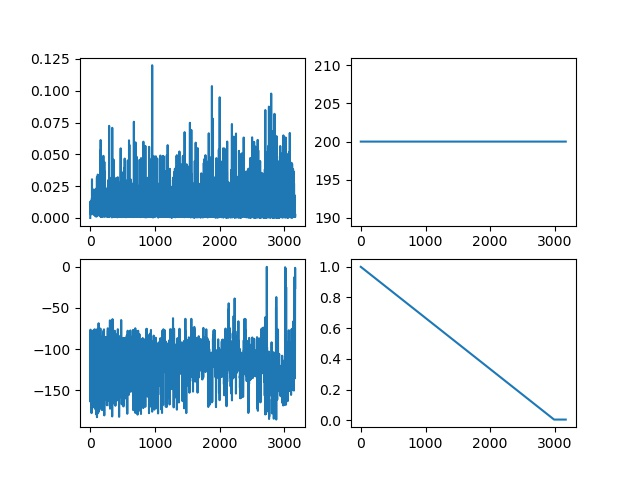
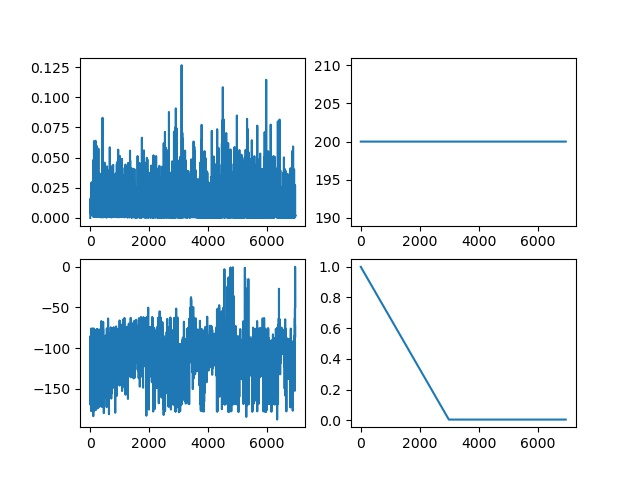
dueling dqn debuging...

diff --git a/2_Deep_ValueBased/Code/DNN_Value_Function/DQN_Pendulum/main.py b/2_Deep_ValueBased/Code/DNN_Value_Function/DQN_Pendulum/main.py
@@ -20,7 +20,7 @@ exp_replay_size = 256
 # agent = double_DQN_agent(seed, layer_sizes, lr, gamma, sync_freq, exp_replay_size)
 agent = dueling_DQN_agent(seed, layer_sizes, lr, gamma, sync_freq, exp_replay_size)
 
-episodes = 10000
+episodes = 8000
 epsilon = 1.0
 batch_size = 16
 loss_list, reward_list, step_list, epsilon_list = [], [], [], []
@@ -32,8 +32,8 @@ LEARN_FREQ = exp_replay_size/2
 LEARN_TIMES = 4
 collect_count = exp_replay_size/2
 
-SAVE_COUNT_THR = 3
-SAVE_REWARD_THR = -3
+SAVE_COUNT_THR = 5
+SAVE_REWARD_THR = -0.03
 save_count = 0
 
 for episode in tqdm(range(episodes+1)):
@@ -59,11 +59,11 @@ for episode in tqdm(range(episodes+1)):
         step += 1
         collect_count += 1
     
-    if sum(step_reward_list[-50:]) >= SAVE_REWARD_THR:
+    if sum(step_reward_list[-10:]) >= SAVE_REWARD_THR:
         save_count += 1
         if save_count >= SAVE_COUNT_THR:
             print("Saving trained model...")
-            agent.save_trained_model("2_Deep_ValueBased/Model/"+ agent.name +"DQN-Pendulum-v1" + "_episode_" + str(episode)+".pth")
+            agent.save_trained_model("2_Deep_ValueBased/Model/"+ agent.name +"_DQN-Pendulum-v1" + "_episode_" + str(episode)+".pth")
             break
     else:
         save_count = 0
@@ -80,7 +80,7 @@ env.close()
 
 if save_count < SAVE_COUNT_THR:
     print("Saving trained model...")
-    agent.save_trained_model("2_Deep_ValueBased/Model/"+ agent.name +"DQN-Pendulum-v1" + "_episode_" + str(episodes)+".pth")
+    agent.save_trained_model("2_Deep_ValueBased/Model/"+ agent.name +"_DQN-Pendulum-v1" + "_episode_" + str(episodes)+".pth")
 
 plt.subplot(221)
 plt.plot(loss_list)
@@ -90,5 +90,5 @@ plt.subplot(223)
 plt.plot(reward_list)
 plt.subplot(224)
 plt.plot(epsilon_list)
-plt.savefig("2_Deep_ValueBased/Fig/"+ agent.name +"DQN-Pendulum-v1_plot.jpg")
+plt.savefig("2_Deep_ValueBased/Fig/"+ agent.name +"_DQN-Pendulum-v1_plot.jpg")
 plt.show()

diff --git a/2_Deep_ValueBased/Code/DNN_Value_Function/DQN_Pendulum/dueling_dqn.py b/2_Deep_ValueBased/Code/DNN_Value_Function/DQN_Pendulum/dueling_dqn.py
@@ -21,7 +21,7 @@ class dueling_DQN_agent():
         self.learn_count = 0
         self.exp_replay_mem = ReplayMemory(exp_replay_size)
 
-        self.name = "dueling_"
+        self.name = "dueling"
 
     def get_action(self, state, action_space_len, epsilon):
         with torch.no_grad():
@@ -30,13 +30,11 @@ class dueling_DQN_agent():
         A = A if torch.rand(1, ).item() > epsilon else torch.randint(0, action_space_len, (1,))
         return A.item(), Q
 
-    def get_qvalue_(self, state, batch_size):
+    def get_qvalue_(self, state):
         with torch.no_grad():
-            q_target_net = self.target_net(state)
-            q_net = self.net(state)
-        _, action_max = torch.max(q_net, axis=1)
-        q_max_ = q_target_net.gather(-1, action_max.view(batch_size, 1)).view(-1)
-        return q_max_
+            q_values_ = self.target_net(state)
+        q_max, _ = torch.max(q_values_, axis=1)
+        return q_max
 
     def store_memory(self, *exp):
         self.exp_replay_mem.push_pop(*exp)
@@ -55,7 +53,7 @@ class dueling_DQN_agent():
         q_values = self.net(state)
         q_value = q_values.gather(-1, action.view(batch_size, 1)).view(-1)
 
-        max_q_value_ = self.get_qvalue_(state_, batch_size)
+        max_q_value_ = self.get_qvalue_(state_)
         q_target = reward + self.gamma * max_q_value_ * (1 - is_terminal)
 
         loss = self.loss_func(q_value.view(batch_size, 1), q_target.view(batch_size, 1))

diff --git a/2_Deep_ValueBased/Code/DNN_Value_Function/DQN_Pendulum/pendulum-v1_dqn_demo.py b/2_Deep_ValueBased/Code/DNN_Value_Function/DQN_Pendulum/pendulum-v1_dqn_demo.py
@@ -3,6 +3,7 @@ import time
 import matplotlib.pyplot as plt
 from tqdm import tqdm
 from dqn import DQN_agent
+from double_dqn import double_DQN_agent
 from dueling_dqn import dueling_DQN_agent
 from utils import *
 
@@ -17,8 +18,9 @@ gamma = 0.95
 sync_freq = 5
 exp_replay_size = 256
 # agent = DQN_agent(seed, layer_sizes, lr, gamma, sync_freq, exp_replay_size)
+# agent = double_DQN_agent(seed, layer_sizes, lr, gamma, sync_freq, exp_replay_size)
 agent = dueling_DQN_agent(seed, layer_sizes, lr, gamma, sync_freq, exp_replay_size)
-agent.load_pretrained_model("2_Deep_ValueBased/Model/dueling_DQN-Pendulum-v1_episode_3168.pth")
+agent.load_pretrained_model("2_Deep_ValueBased/Model/"+ agent.name +"_DQN-Pendulum-v1_episode_6959.pth")
 
 TEST_TIMES = 3
 TEST_MAX_STEP = 200

diff --git a/2_Deep_ValueBased/Code/DNN_Value_Function/DQN_Pendulum/model.py b/2_Deep_ValueBased/Code/DNN_Value_Function/DQN_Pendulum/model.py
@@ -31,7 +31,7 @@ class dueling_DQN_fnn(nn.Module):
         layers = []
         for index in range(len(layer_sizes) - 2):
             linear = nn.Linear(layer_sizes[index], layer_sizes[index + 1])
-            act = nn.ReLU() if index < len(layer_sizes) - 2 else nn.Identity()
+            act = nn.ReLU()
             layers += (linear, act)
 
         self.fc1 = nn.Sequential(*layers)

diff --git a/2_Deep_ValueBased/Code/DNN_Value_Function/DQN_Pendulum/double_dqn.py b/2_Deep_ValueBased/Code/DNN_Value_Function/DQN_Pendulum/double_dqn.py
@@ -21,7 +21,7 @@ class double_DQN_agent():
         self.learn_count = 0
         self.exp_replay_mem = ReplayMemory(exp_replay_size)
 
-        self.name = "double_"
+        self.name = "double"
 
     def get_action(self, state, action_space_len, epsilon):
         with torch.no_grad():

diff --git a/2_Deep_ValueBased/Code/DNN_Value_Function/DQN_Pendulum/dqn.py b/2_Deep_ValueBased/Code/DNN_Value_Function/DQN_Pendulum/dqn.py
@@ -21,7 +21,7 @@ class DQN_agent():
         self.learn_count = 0
         self.exp_replay_mem = ReplayMemory(exp_replay_size)
 
-        self.name = "natural_"
+        self.name = "natural"
 
     def get_action(self, state, action_space_len, epsilon):
         with torch.no_grad():
